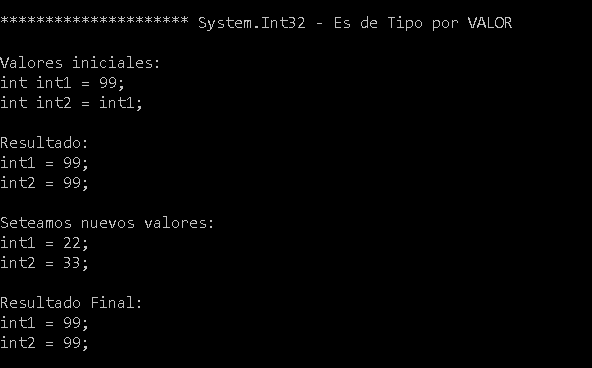
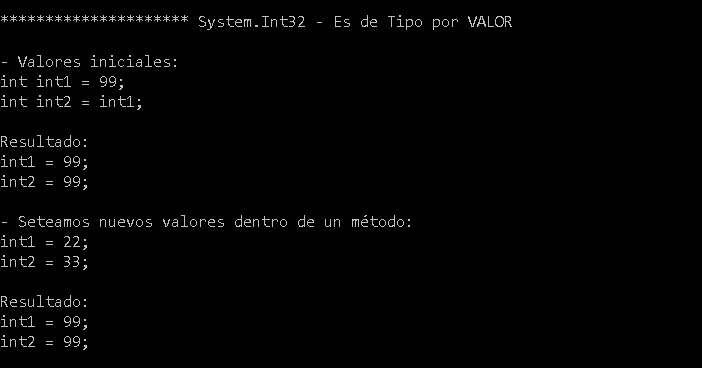
.

diff --git a/Caso3/Compare.cs b/Caso3/Compare.cs
@@ -12,9 +12,9 @@ namespace DataTypes.Caso3
             
             User user1 = new User { Id = "1", Name = "Juan" };
             User user2 = user1;
-            Console.WriteLine($"\n********************* {user1.GetType().Name} - Es de Tipo por {(user1.GetType().IsValueType ? "VALOR" : "REFERENCIA")}\n\nValores iniciales:\nUser user1 = new User ( Id = '1',Name = 'Juan' );\nUser user2 = user1;\n\nResultado:\nuser1.Name = {user1.Name};\nuser2.Name = {user2.Name};");
+            Console.WriteLine($"\n********************* {user1.GetType().Name} - Es de Tipo por {(user1.GetType().IsValueType ? "VALOR" : "REFERENCIA")}\n\n- Valores iniciales:\nUser user1 = new User ( Id = '1',Name = 'Juan' );\nUser user2 = user1;\n\nResultado:\nuser1.Name = {user1.Name};\nuser2.Name = {user2.Name};");
             SetValuesUser(user1, user2);
-            Console.WriteLine($"Resultado Final:\nuser1.Name = {user1.Name};\nuser2.Name = {user2.Name};");
+            Console.WriteLine($"Resultado:\nuser1.Name = {user1.Name};\nuser2.Name = {user2.Name};");
         }
 
         private static void SetValuesUser(User user1, User user2)
@@ -22,7 +22,7 @@ namespace DataTypes.Caso3
             user1.Name = "Pedro";
             user2.Name = "Jose";
 
-            Console.WriteLine("\nSeteamos nuevos valores:\nuser1.Name = 'Pedro';\nuser2.Name = 'Jose';\n");
+            Console.WriteLine("\n- Seteamos nuevos valores:\nuser1.Name = 'Pedro';\nuser2.Name = 'Jose';\n");
         }
     }
 }

diff --git a/Caso2/Compare.cs b/Caso2/Compare.cs
@@ -11,9 +11,9 @@ namespace DataTypes.Caso2
         {
             string string1 = "99";
             string string2 = string1;
-            Console.WriteLine($"\n********************* {string1.GetType().FullName} - Es de Tipo por {(string1.GetType().IsValueType ? "VALOR" : "REFERENCIA")}\n\nValores iniciales:\nstring string1 ='99';\nstring string2 = string1;\n\nResultado:\nstring1 = {string1};\nstring2 = {string2};");
+            Console.WriteLine($"\n********************* {string1.GetType().FullName} - Es de Tipo por {(string1.GetType().IsValueType ? "VALOR" : "REFERENCIA")}\n\n- Valores iniciales:\nstring string1 ='99';\nstring string2 = string1;\n\nResultado:\nstring1 = {string1};\nstring2 = {string2};");
             SetValuesString(string1, string2);
-            Console.WriteLine($"Resultado Final:\nstring1 = {string1};\nstring2 = {string2};");
+            Console.WriteLine($"Resultado:\nstring1 = {string1};\nstring2 = {string2};");
         }
 
         private static void SetValuesString(string string1, string string2)
@@ -21,7 +21,7 @@ namespace DataTypes.Caso2
             string1 = "22";
             string2 = "33";
 
-            Console.WriteLine("\nSeteamos nuevos valores:\nstring1 = '22';\nstring2 = '33';\n");
+            Console.WriteLine("\n- Seteamos nuevos valores:\nstring1 = '22';\nstring2 = '33';\n");
         }
     }
 }

diff --git a/Caso1/Compare.cs b/Caso1/Compare.cs
@@ -11,9 +11,9 @@ namespace DataTypes.Caso1
         {
             int int1 = 99;
             int int2 = int1;
-            Console.WriteLine($"\n********************* {int1.GetType().FullName} - Es de Tipo por {(int1.GetType().IsValueType ? "VALOR" : "REFERENCIA")}\n\nValores iniciales:\nint int1 = 99;\nint int2 = int1;\n\nResultado:\nint1 = {int1};\nint2 = {int2};");
+            Console.WriteLine($"\n********************* {int1.GetType().FullName} - Es de Tipo por {(int1.GetType().IsValueType ? "VALOR" : "REFERENCIA")}\n\n- Valores iniciales:\nint int1 = 99;\nint int2 = int1;\n\nResultado:\nint1 = {int1};\nint2 = {int2};");
             SetValuesInt(int1, int2);
-            Console.WriteLine($"Resultado Final:\nint1 = {int1};\nint2 = {int2};");
+            Console.WriteLine($"Resultado:\nint1 = {int1};\nint2 = {int2};");
         }
 
         private static void SetValuesInt(int int1, int int2)
@@ -21,7 +21,7 @@ namespace DataTypes.Caso1
             int1 = 22;
             int2 = 33;
 
-            Console.WriteLine("\nSeteamos nuevos valores:\nint1 = 22;\nint2 = 33;\n");
+            Console.WriteLine("\n- Seteamos nuevos valores dentro de un método:\nint1 = 22;\nint2 = 33;\n");
         }
     }
 }
